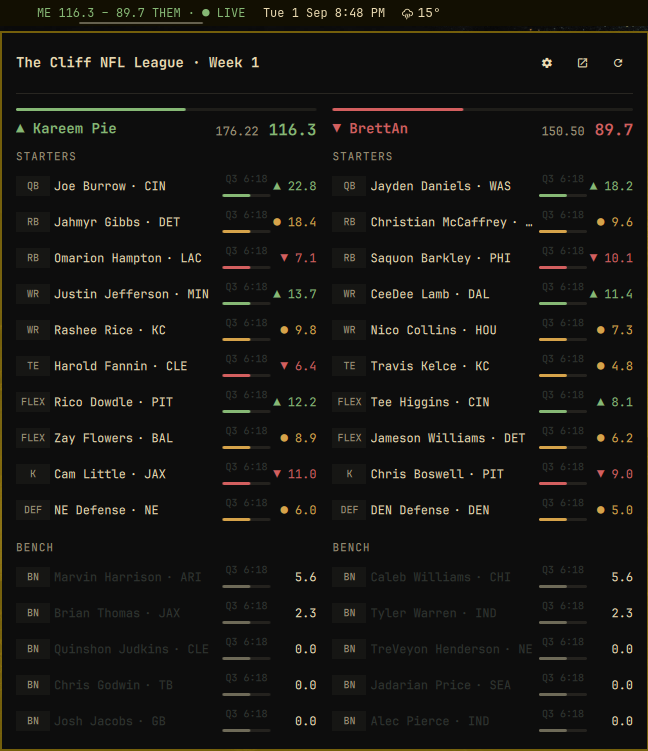
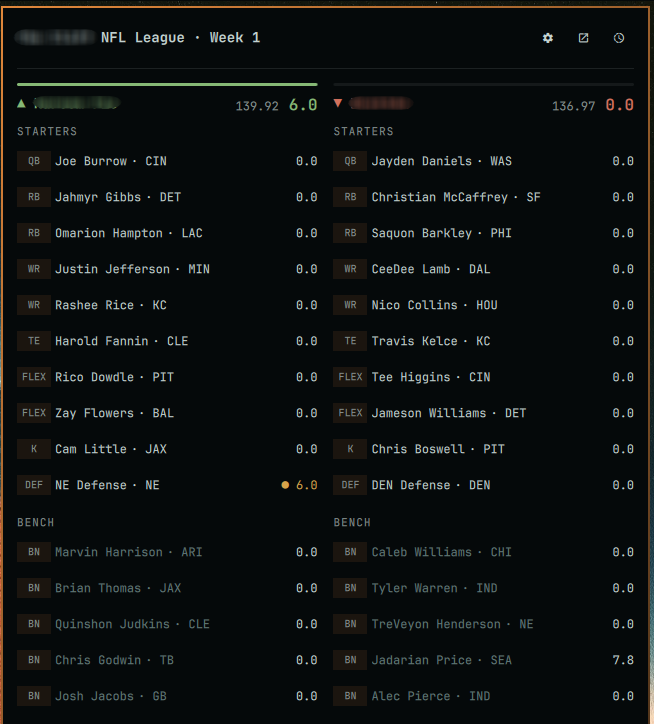
Replace the screenshots with anonymised captures
The previous preview showed a real league name, both real team names, and
a full roster. It was also the marketplace card image, so those names
were the plugin's public shopfront. The replacements blur the league and
team names and are cropped to the panel itself rather than the whole
desktop, which is also what the marketplace card wants.

Adds a player-card capture. The scoring breakdown is the most useful
thing the card does and nothing showed it until now: the example
reconciles a rushing, reception, and receiving-yard line to the 7.8
points above them. The scoreboard capture happens to show the pace mark
rendering for the first time, a defence on 6.0 against a 6.66 projection
sitting inside the tolerance band.

diff --git a/README.md b/README.md
@@ -6,6 +6,10 @@ The compact bar score opens a two-column panel showing both lineups, live game c
 
 ![Live Sleeper fantasy matchup scoreboard](preview.png)
 
+It sits in the bar as a single score, so the matchup stays visible without opening anything:
+
+![Compact Sleeper matchup score in the Omarchy bar](assets/oma-sleeper-menubar.png)
+
 ## Requirements
 
 - Omarchy 4.x with `omarchy-shell`
@@ -44,9 +48,11 @@ omarchy plugin remove nugget210.oma-sleeper
 - **Alerts** — optional sounds and desktop notifications for scoring plays and lead changes.
 - **Adaptive refresh** — 60 seconds while a game is live, 5 minutes when kickoff is within three hours, 15 minutes otherwise, and immediately when the panel opens or the machine wakes.
 
-## The panel
+## The player card
 
-Click a player or defence in either lineup to open their detail card.
+Click any player or defence in either lineup — starter or bench — to open their detail card.
+
+![Player detail card showing a scoring breakdown](assets/oma-sleeper-player-card.png)
 
 | | |
 |---|---|
@@ -54,7 +60,8 @@ Click a player or defence in either lineup to open their detail card.
 | **How these points were scored** | One line per scoring rule the player triggered, showing the count against your league's rate and the points it produced — `Shutout 1 × 10 → 10.0`, `Passing yards 245 × 0.04 → 9.8`. Derived from your league's settings, so it follows any change your commissioner makes. |
 | **Game status** | `● LIVE · Q3 4:12` with a progress rail, or `FINAL`, or `YET TO PLAY`. |
 | **This week** | The box score lines that apply to the position — completions and passing yards for a quarterback, sacks and yards allowed for a defence. |
-| **Season** | Games played and total points, plus age, size, college, experience, and depth-chart position. |
+| **Season** | Games played and total points in your league's scoring. |
+| **Player** | Age, size, college, experience, and depth-chart position. |
 
 Photos come from Sleeper's public CDN, cached for 30 days, with a team defence resolving to its team logo and a position badge as fallback.
 
